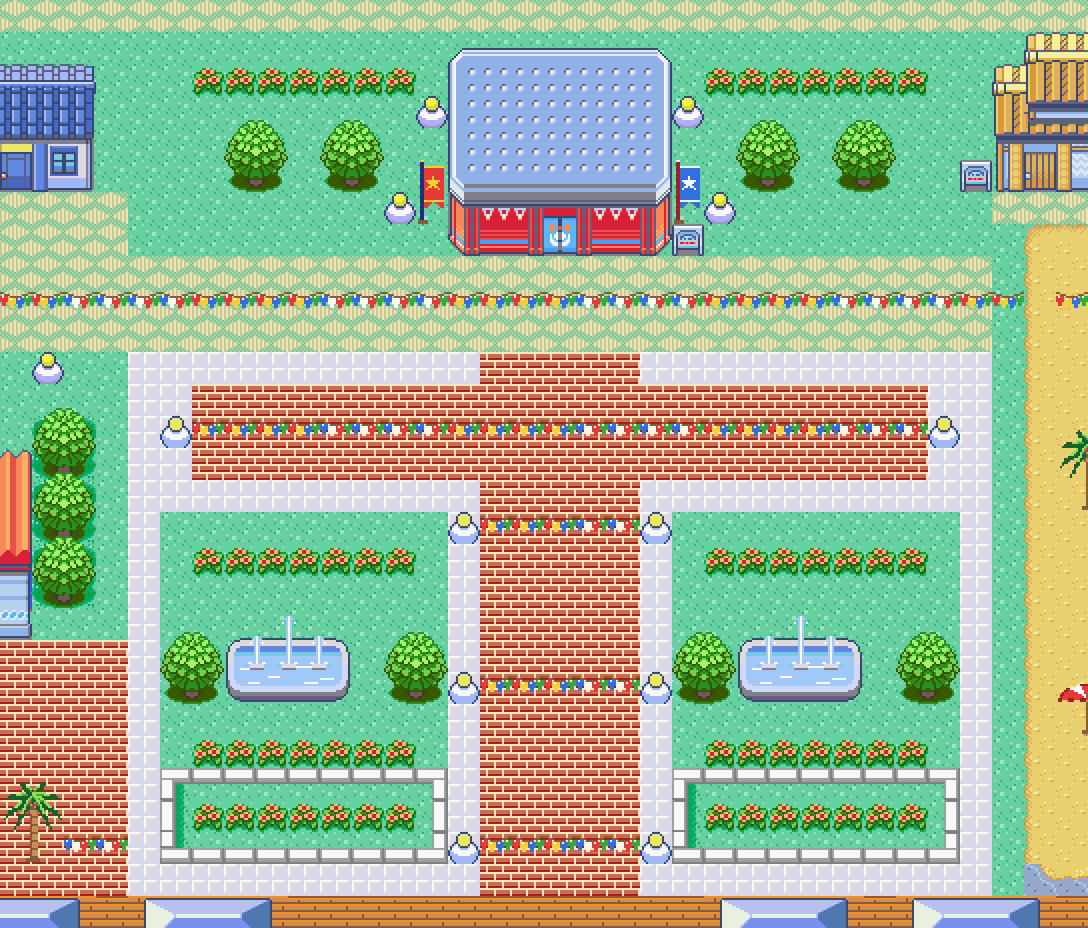
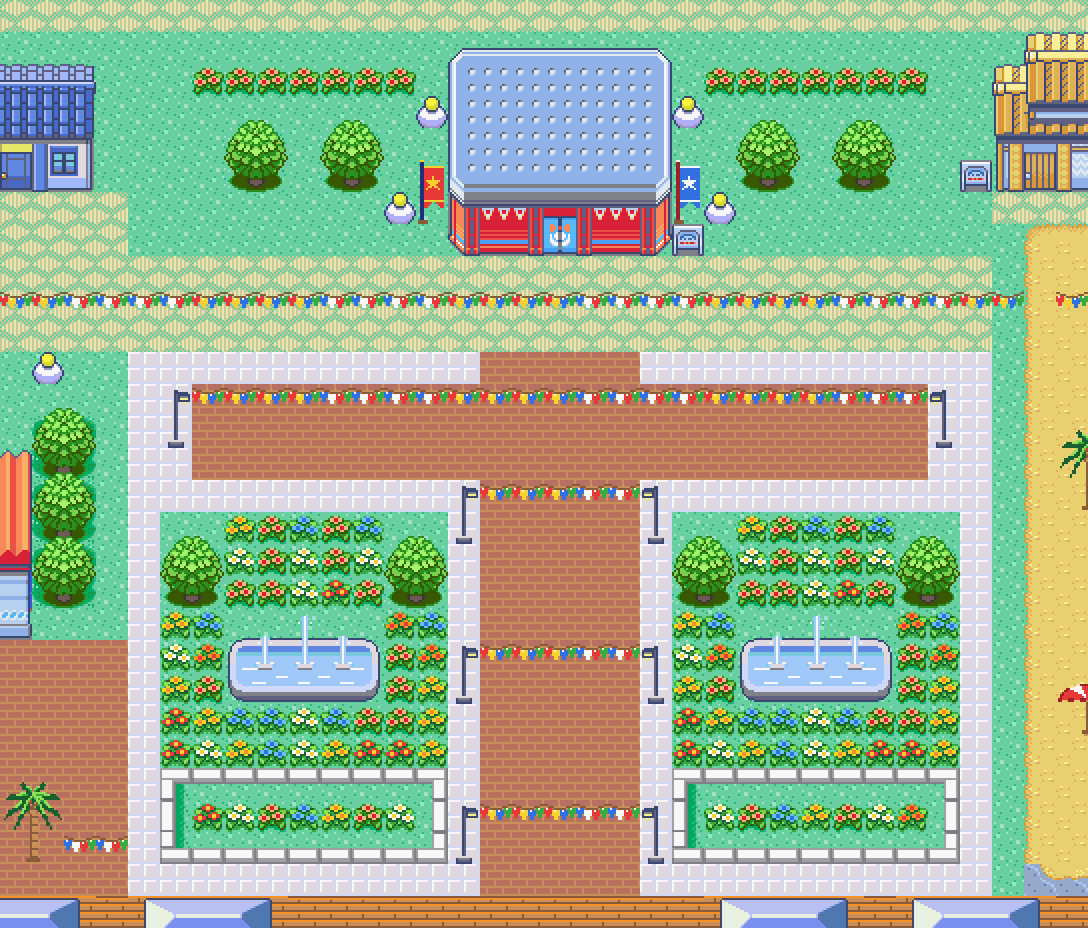
Plaza: muted simple bricks, modern lamps, flower lawns, symmetric fountains
- Bricks: larger pavers, softer joint, less saturated.
- Modern street lamps (slim pole, arm, LED head), same positions, heads
  facing the path; bunting hangs between the lamp heads.
- Lawns filled with flowers in five colours (recoloured Emerald flower).
- Fountains widened to 5 tiles, centred in the lawns and mirrored about
  the plaza axis.

Claude-Session: https://claude.ai/code/session_015nAeBdQj1XXGE9TrWVaT6H

Changed region(s): [[0.0, 0.375, 0.9062, 0.9688]]

diff --git a/dev_scripts/lilycove_redesign/plaza_art.py b/dev_scripts/lilycove_redesign/plaza_art.py
@@ -77,10 +77,10 @@ def fountain():
 
 
 def fountain_modern():
-    """64x48 modern fountain: rounded rectangular pool, stone rim, three water jets."""
-    W, H = 64, 48
+    """80x48 modern fountain: rounded rectangular pool, stone rim, three water jets."""
+    W, H = 80, 48
     c = _canvas(W, H)
-    x0, x1, y0, y1, r = 2, 61, 16, 41, 6
+    x0, x1, y0, y1, r = 3, 76, 16, 41, 6
     def inside(x, y, x0, x1, y0, y1, r):
         if x < x0 or x > x1 or y < y0 or y > y1: return False
         cx = min(max(x, x0 + r), x1 - r); cy = min(max(y, y0 + r), y1 - r)
@@ -101,10 +101,10 @@ def fountain_modern():
                 else:
                     c[y][x] = LGR if y < (y0 + y1) // 2 else PALE
     # ripple lines on the water
-    for (xa, xb, y) in [(8, 16, 30), (22, 28, 34), (36, 44, 29), (48, 55, 35), (12, 18, 37), (40, 47, 37)]:
+    for (xa, xb, y) in [(9, 17, 30), (26, 32, 34), (47, 53, 34), (62, 70, 30), (14, 21, 37), (58, 65, 37), (37, 43, 37)]:
         for x in range(xa, xb): c[y][x] = WH
     # nozzles (small stone discs) for the three jets
-    jets = [(16, 14), (32, 4), (47, 14)]
+    jets = [(20, 14), (40, 4), (59, 14)]
     for jx, top in jets:
         for x in range(jx - 3, jx + 4):
             for y in range(28, 31): c[y][x] = MGR if y == 30 else LGR
@@ -144,3 +144,53 @@ def render_palette8():
     p = os.path.join(os.path.dirname(os.path.abspath(__file__)), '..', '..', 'data/tilesets/secondary/lilycove/palettes/08.pal')
     L = open(p).read().split('\n')[3:19]
     return [tuple(int(v) for v in l.split()) for l in L]
+
+
+YEL1, YEL2 = 12, 13          # palette 8 yellows (lamp light)
+
+def lamp_modern():
+    """16x32 modern street lamp: slim dark pole, curved arm, flat LED head, base plate."""
+    c = _canvas(16, 32)
+    for y in range(8, 29):                       # pole
+        c[y][7] = OUT; c[y][8] = DGR
+    for x in range(4, 12): c[29][x] = MGR; c[30][x] = DGR
+    for x in range(5, 11): c[28][x] = LGR
+    for x in (4, 11): c[29][x] = OUT; c[30][x] = OUT
+    for x in range(4, 12): c[31][x] = OUT
+    for y in range(4, 9): c[y][7] = OUT; c[y][8] = DGR   # top of pole
+    for x in range(8, 14): c[4][x] = OUT; c[5][x] = DGR  # arm to the right
+    for x in range(9, 15):                       # LED head
+        c[5][x] = OUT; c[6][x] = MGR; c[7][x] = YEL1; c[8][x] = OUT
+    c[6][9] = OUT; c[6][14] = OUT; c[7][9] = OUT; c[7][14] = OUT
+    for x in range(10, 14): c[9][x] = YEL2 if x % 2 else 0      # soft glow
+    c[3][7] = OUT; c[3][8] = OUT
+    return c
+
+FLOWER_COLOURS = {        # petals, centre  (palette 6 indices)
+    'flower_yellow': (3, 4),    # YE / OR
+    'flower_white': (1, 3),     # WH / YE
+    'flower_blue': (8, 9),      # LB / BL
+    'flower_red': (5, 3),       # RE / YE
+    'flower_orange': (4, 5),    # OR / RE
+}
+
+def flower(name):
+    """Emerald's flower tile (3 flowers + leaves) with recoloured petals, palette 6."""
+    mimg = render.build('primary/general', 'secondary/lilycove_city')[0]
+    f = mimg(0x004).load(); g = mimg(0x001).load()
+    petal, centre = FLOWER_COLOURS[name]
+    greens = {2: (144, 224, 88), 12: (56, 168, 64), 13: (24, 96, 48)}
+    greens = {11: (144, 224, 88), 12: (56, 168, 64), 13: (24, 96, 48)}
+    c = _canvas(16, 16)
+    for y in range(16):
+        for x in range(16):
+            col = f[x, y]
+            if col == g[x, y]: continue
+            if col == (248, 184, 128): c[y][x] = petal
+            elif col == (216, 32, 56): c[y][x] = centre
+            elif col in ((104, 208, 160), (160, 224, 200), (40, 184, 128)): continue
+            else:
+                c[y][x] = min(greens, key=lambda i: sum((a - b) ** 2 for a, b in zip(greens[i], col)))
+    if name in ('flower_white', 'flower_blue'):           # mirror some for variety
+        c = [row[::-1] for row in c]
+    return c

diff --git a/dev_scripts/lilycove_redesign/layout.py b/dev_scripts/lilycove_redesign/layout.py
@@ -136,15 +136,19 @@ art('boat_side_l',49,32,bottom='shallow'); art('boat_front',49,35,bottom='shallo
 paving(14,23,41,40)                       # grey tiles: contour and walkways
 brickfill(25,23,30,40)                    # long arm of the cross, pointing at the Contest Hall
 brickfill(16,24,39,27)                    # cross bar, right below the hall
-for qx in (14,30):                        # two lawns (left / right), fountains set apart from the paths
-    lx0 = qx+1                            # lawn x lx0..lx0+8, rows 28..38
+for side,lx0 in (('L',15),('R',31)):      # two lawns (x lx0..lx0+8, rows 28..38), mirrored about x=27
     fill(lx0,28,lx0+9,39,GRASS)
-    flowers(lx0+1,29,lx0+8,30); flowers(lx0+1,35,lx0+8,36)
-    art('fountain_modern',lx0+2,31,bottom='grass')
-    tree1(lx0,31) if qx==14 else tree1(lx0+7,31)
-    tree1(lx0+7,31) if qx==14 else tree1(lx0,31)
-    flowerbed(lx0,36,9,3)                 # long flowerbed along the bottom of the lawn
-# bunting strung between lamp posts across the brick paths
+    fx = lx0+2                            # 5-wide fountain centred in the lawn (2 tiles of margin each side)
+    ring = {(x,y) for x in range(fx,fx+5) for y in range(31,34)}     # the fountain itself
+    corner_trees = [(lx0,28),(lx0+7,28)]
+    tree_tiles = {(x+dx,y+dy) for (x,y) in corner_trees for dx in (0,1) for dy in (0,1,2)}
+    flowerfield(lx0,28,lx0+9,36,seed=7 if side=='L' else 7,skip=ring|tree_tiles)
+    for (tx,ty) in corner_trees: tree1(tx,ty)
+    art('fountain_modern',fx,31,bottom='grass')
+    flowerbed(lx0,36,9,3)                 # long kerbed flowerbed along the bottom of the lawn
+    for x in range(lx0+1,lx0+8):          # ...planted with mixed flowers
+        art(FLOWER_KINDS[(x*3)%5],x,37,bottom='grass') if x%3 else put(x,37,T(0x004,1,0))
+# modern lamp posts (same spots) with bunting strung between their heads
 for y in (28,33,38):
-    lamp2(24,y); lamp2(30,y); bunting2(25,30,y,'brick')
-lamp2(15,25); lamp2(39,25); bunting2(16,39,25,'brick')
+    lamp2(24,y); lamp2(30,y,facing='left'); bunting2(25,30,y-1,'brick')
+lamp2(15,25); lamp2(39,25,facing='left'); bunting2(16,39,24,'brick')

diff --git a/dev_scripts/lilycove_redesign/festival_tiles.py b/dev_scripts/lilycove_redesign/festival_tiles.py
@@ -18,7 +18,7 @@ BASE = os.path.join(HERE, 'base_tileset')
 
 # ---------------------------------------------------------------- palettes
 PAL6 = [(0, 0, 0), (248, 248, 248), (248, 232, 184), (248, 208, 48), (248, 144, 40),
-        (232, 56, 56), (160, 32, 40), (208, 104, 80), (104, 192, 248), (48, 112, 224),
+        (232, 56, 56), (160, 32, 40), (184, 112, 96), (104, 192, 248), (48, 112, 224),
         (32, 48, 120), (144, 224, 88), (56, 168, 64), (24, 96, 48), (200, 144, 88), (136, 92, 56)]
 PAL12 = list(PAL6)
 PAL12[5], PAL12[6], PAL12[3] = (48, 112, 224), (32, 48, 120), (248, 248, 248)   # red->blue, yellow->white
@@ -40,11 +40,11 @@ def rect(c, x0, y0, x1, y1, v):
 
 # ---------------------------------------------------------------- art
 def brick():
-    rows = ['22222222', '77727777', '77727777', '66626666',
-            '22222222', '77777772', '77777772', '66666662']
-    t = [[int(ch) for ch in r] for r in rows]
-    m = {2: CR, 7: BR, 6: DR}
-    return [[m[v] for v in r] for r in t]
+    """Simple, muted pavers: large bricks with a soft warm joint (no shading rows)."""
+    rows = ['77777773', '77777773', '77777773', '33333333',
+            '77737777', '77737777', '77737777', '33333333']
+    m = {7: BR, 3: BN}
+    return [[m[int(ch)] for ch in r] for r in rows]
 
 def carpet():   # 16x16, red carpet with gold borders on both sides
     c = canvas(16, 16); rect(c, 0, 0, 16, 16, RE)

diff --git a/dev_scripts/lilycove_redesign/compose.py b/dev_scripts/lilycove_redesign/compose.py
@@ -119,10 +119,22 @@ def flowerbed(x0,y0,w,h):
             else: k='l' if l else ('r' if r else None)
             put(x0+i,y0+j,T(CURB[k],1,0) if k else T(0x004,1,0))
 
-def lamp2(x,y,under='paving'):  art('lamp',x,y,bottom=under)
+def lamp2(x,y,under='paving',facing='right'):   # modern lamp: head at row y-1 (walk behind it), pole at row y
+    art('lamp_modern' if facing=='right' else 'lamp_modern_l',x,y-1,bottom=under,walk_rows=1)
 def bunting2(x0,x1,y,under='paving'):
     for x in range(x0,x1):
         art('bunting_blue' if (x//4)%2 else 'bunting',x,y,bottom=under,walk_rows=1)
 def string_lights(xa,xb,y,under='paving'):
     """two lamp posts with bunting strung between them"""
     lamp2(xa,y,under); lamp2(xb,y,under); bunting2(xa+1,xb,y,under)
+
+import random as _random
+FLOWER_KINDS = ['flower_yellow','flower_white','flower_blue','flower_red','flower_orange']
+def flowerfield(x0,y0,x1,y1,seed=1,skip=()):
+    rnd=_random.Random(seed)
+    for y in range(y0,y1):
+        for x in range(x0,x1):
+            if (x,y) in skip: continue
+            k=rnd.random()
+            if k<0.18: put(x,y,FLOWERS)                       # original red/peach flowers
+            else: art(FLOWER_KINDS[int((k-0.18)/0.82*5)%5],x,y,bottom='grass',walk_rows=1)

diff --git a/dev_scripts/lilycove_redesign/port_art.py b/dev_scripts/lilycove_redesign/port_art.py
@@ -48,7 +48,7 @@ ART = {n: (lambda n=n: _CANVAS[n]) for n in _CANVAS}
 
 # plaza art, drawn directly in Lilycove palette 8 (no quantisation needed)
 import plaza_art as _P
-for _n, _f in (('paving', _P.paving), ('fountain', _P.fountain), ('fountain_modern', _P.fountain_modern), ('lamp', _P.lamp_post)):
+for _n, _f in (('paving', _P.paving), ('fountain', _P.fountain), ('fountain_modern', _P.fountain_modern), ('lamp', _P.lamp_post), ('lamp_modern', _P.lamp_modern)):
     _CANVAS[_n] = _f()
     PAL_OF[_n] = _P.PAL8_SLOT
     ART[_n] = (lambda n=_n: _CANVAS[n])
@@ -58,3 +58,9 @@ FLOOR = {'paving'}   # art drawn in the bottom layer (walkable floor)
 import festival_tiles as _F
 _CANVAS['bunting'] = _F.bunting(); PAL_OF['bunting'] = 6; ART['bunting'] = lambda: _CANVAS['bunting']
 _CANVAS['bunting_blue'] = _F.bunting(); PAL_OF['bunting_blue'] = 12; ART['bunting_blue'] = lambda: _CANVAS['bunting_blue']
+
+for _n in _P.FLOWER_COLOURS:
+    _CANVAS[_n] = _P.flower(_n); PAL_OF[_n] = 6; ART[_n] = (lambda n=_n: _CANVAS[n])
+
+_CANVAS['lamp_modern_l'] = [row[::-1] for row in _P.lamp_modern()]; PAL_OF['lamp_modern_l'] = _P.PAL8_SLOT
+ART['lamp_modern_l'] = lambda: _CANVAS['lamp_modern_l']

diff --git a/docs/lilycove/README.md b/docs/lilycove/README.md
@@ -75,11 +75,14 @@ python3 dev_scripts/lilycove_redesign/build_lilycove.py --preview /tmp/lilycove.
 * Contorno e caminhos em **ladrilho cinza** (desenhado na paleta 8 de Lilycove).
 * **Cruz invertida de tijolos**: braço longo no eixo do Centro de Concursos, indo até o
   calçadão, e travessa logo abaixo do prédio.
-* Dois **gramados** com flores, árvores médias e um canteiro longo (meio-fio branco
-  original do jogo). As **fontes modernas** (piscina retangular com três jatos) ficam
-  no meio dos gramados, fora do caminho.
-* **Bandeirinhas presas entre postes de luz** atravessando os caminhos de tijolos. Os
-  postes foram extraídos do tile original sem a grama, então ficam sobre o piso certo.
+* **Tijolos** simplificados e menos saturados (pedras grandes com junta suave).
+* Dois **gramados** simétricos, cheios de flores em cinco cores (variações recoloridas da
+  flor original do Emerald), árvores nos cantos e um canteiro longo com meio-fio branco.
+  As **fontes modernas** (piscina retangular com três jatos) ficam centralizadas nos
+  gramados e espelhadas em relação ao eixo da praça.
+* **Postes modernos** (haste fina, braço e luminária de LED), nas mesmas posições de
+  antes, com as cabeças voltadas para o caminho. As **bandeirinhas** ficam presas entre
+  as cabeças dos postes.
 * A praça vai da avenida até o calçadão do porto (o píer não mudou).
 
 ## Porto (zona sul)
@@ -97,7 +100,7 @@ slots 10 e 11):
 O mapa agora tem 64×62. A cidade usa um tileset só dela, `gTileset_LilycoveCity`,
 gerado por `build_city_tileset.py`. Ele mantém os ids de metatile que a cidade já usava
 (as animações de porta continuam funcionando) e reaproveita o espaço que só servia à
-Rota 121 e ao Safari. Ainda sobram ~100 tiles e ~180 metatiles.
+Rota 121 e ao Safari. Ainda sobram ~19 tiles e ~155 metatiles no tileset da cidade.
 
 ## Próximos passos
 * Interior da Casa 4 (sala, cozinha, quarto extra) conforme o roteiro.
